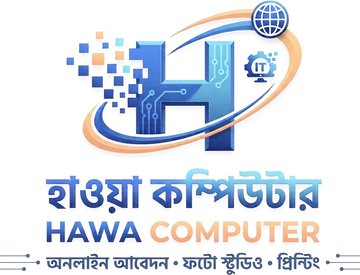
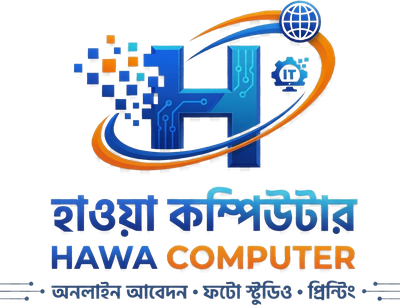
Cut the brand marks from the uploaded hawapng/hawacomputer artwork
The uploaded JPEGs carry a baked checkerboard, so the marks are rebuilt with a
channel-distance alpha instead of a plain luminance key: text, orange and blue
stay solid while the checkerboard drops out. The header uses the icon crop, the
footer the full lockup, and the favicon set comes from hawapng.

Changed region(s): [[0.0, 0.6109, 1.0, 1.0], [0.1833, 0.0, 0.8556, 0.5818]]

diff --git a/src/components/site/footer.tsx b/src/components/site/footer.tsx
@@ -23,11 +23,11 @@ export function Footer({
       <div className="container-page grid gap-10 py-12 sm:grid-cols-2 lg:grid-cols-4">
         <div>
           <img
-            src="/brand/hawa-logo.jpg"
+            src="/brand/hawa-logo.png"
             alt={name}
-            width={1275}
-            height={846}
-            className="h-16 w-auto rounded-lg bg-white/80 object-contain p-1 shadow-[0_10px_26px_-22px_rgba(29,27,49,0.6)]"
+            width={560}
+            height={427}
+            className="h-20 w-auto object-contain drop-shadow-[0_10px_24px_rgba(29,27,49,0.18)]"
             loading="lazy"
           />
           <p className="mt-3 text-sm font-bold">{name}</p>

diff --git a/src/app/(site)/page.tsx b/src/app/(site)/page.tsx
@@ -174,9 +174,9 @@ export default async function HomePage() {
                   <img
                     src="/brand/hawa-icon.png"
                     alt=""
-                    width={40}
-                    height={40}
-                    className="h-9 w-9 shrink-0 object-contain"
+                    width={44}
+                    height={29}
+                    className="h-8 w-auto shrink-0 object-contain"
                   />
                 </div>
 

diff --git a/src/components/site/logo.tsx b/src/components/site/logo.tsx
@@ -19,8 +19,8 @@ export function Logo({
       <img
         src="/brand/hawa-icon.png"
         alt=""
-        width={242}
-        height={170}
+        width={320}
+        height={208}
         className="h-10 w-auto shrink-0 object-contain drop-shadow-[0_4px_10px_rgba(29,27,49,0.12)] sm:h-11"
       />
       {compact ? null : (
